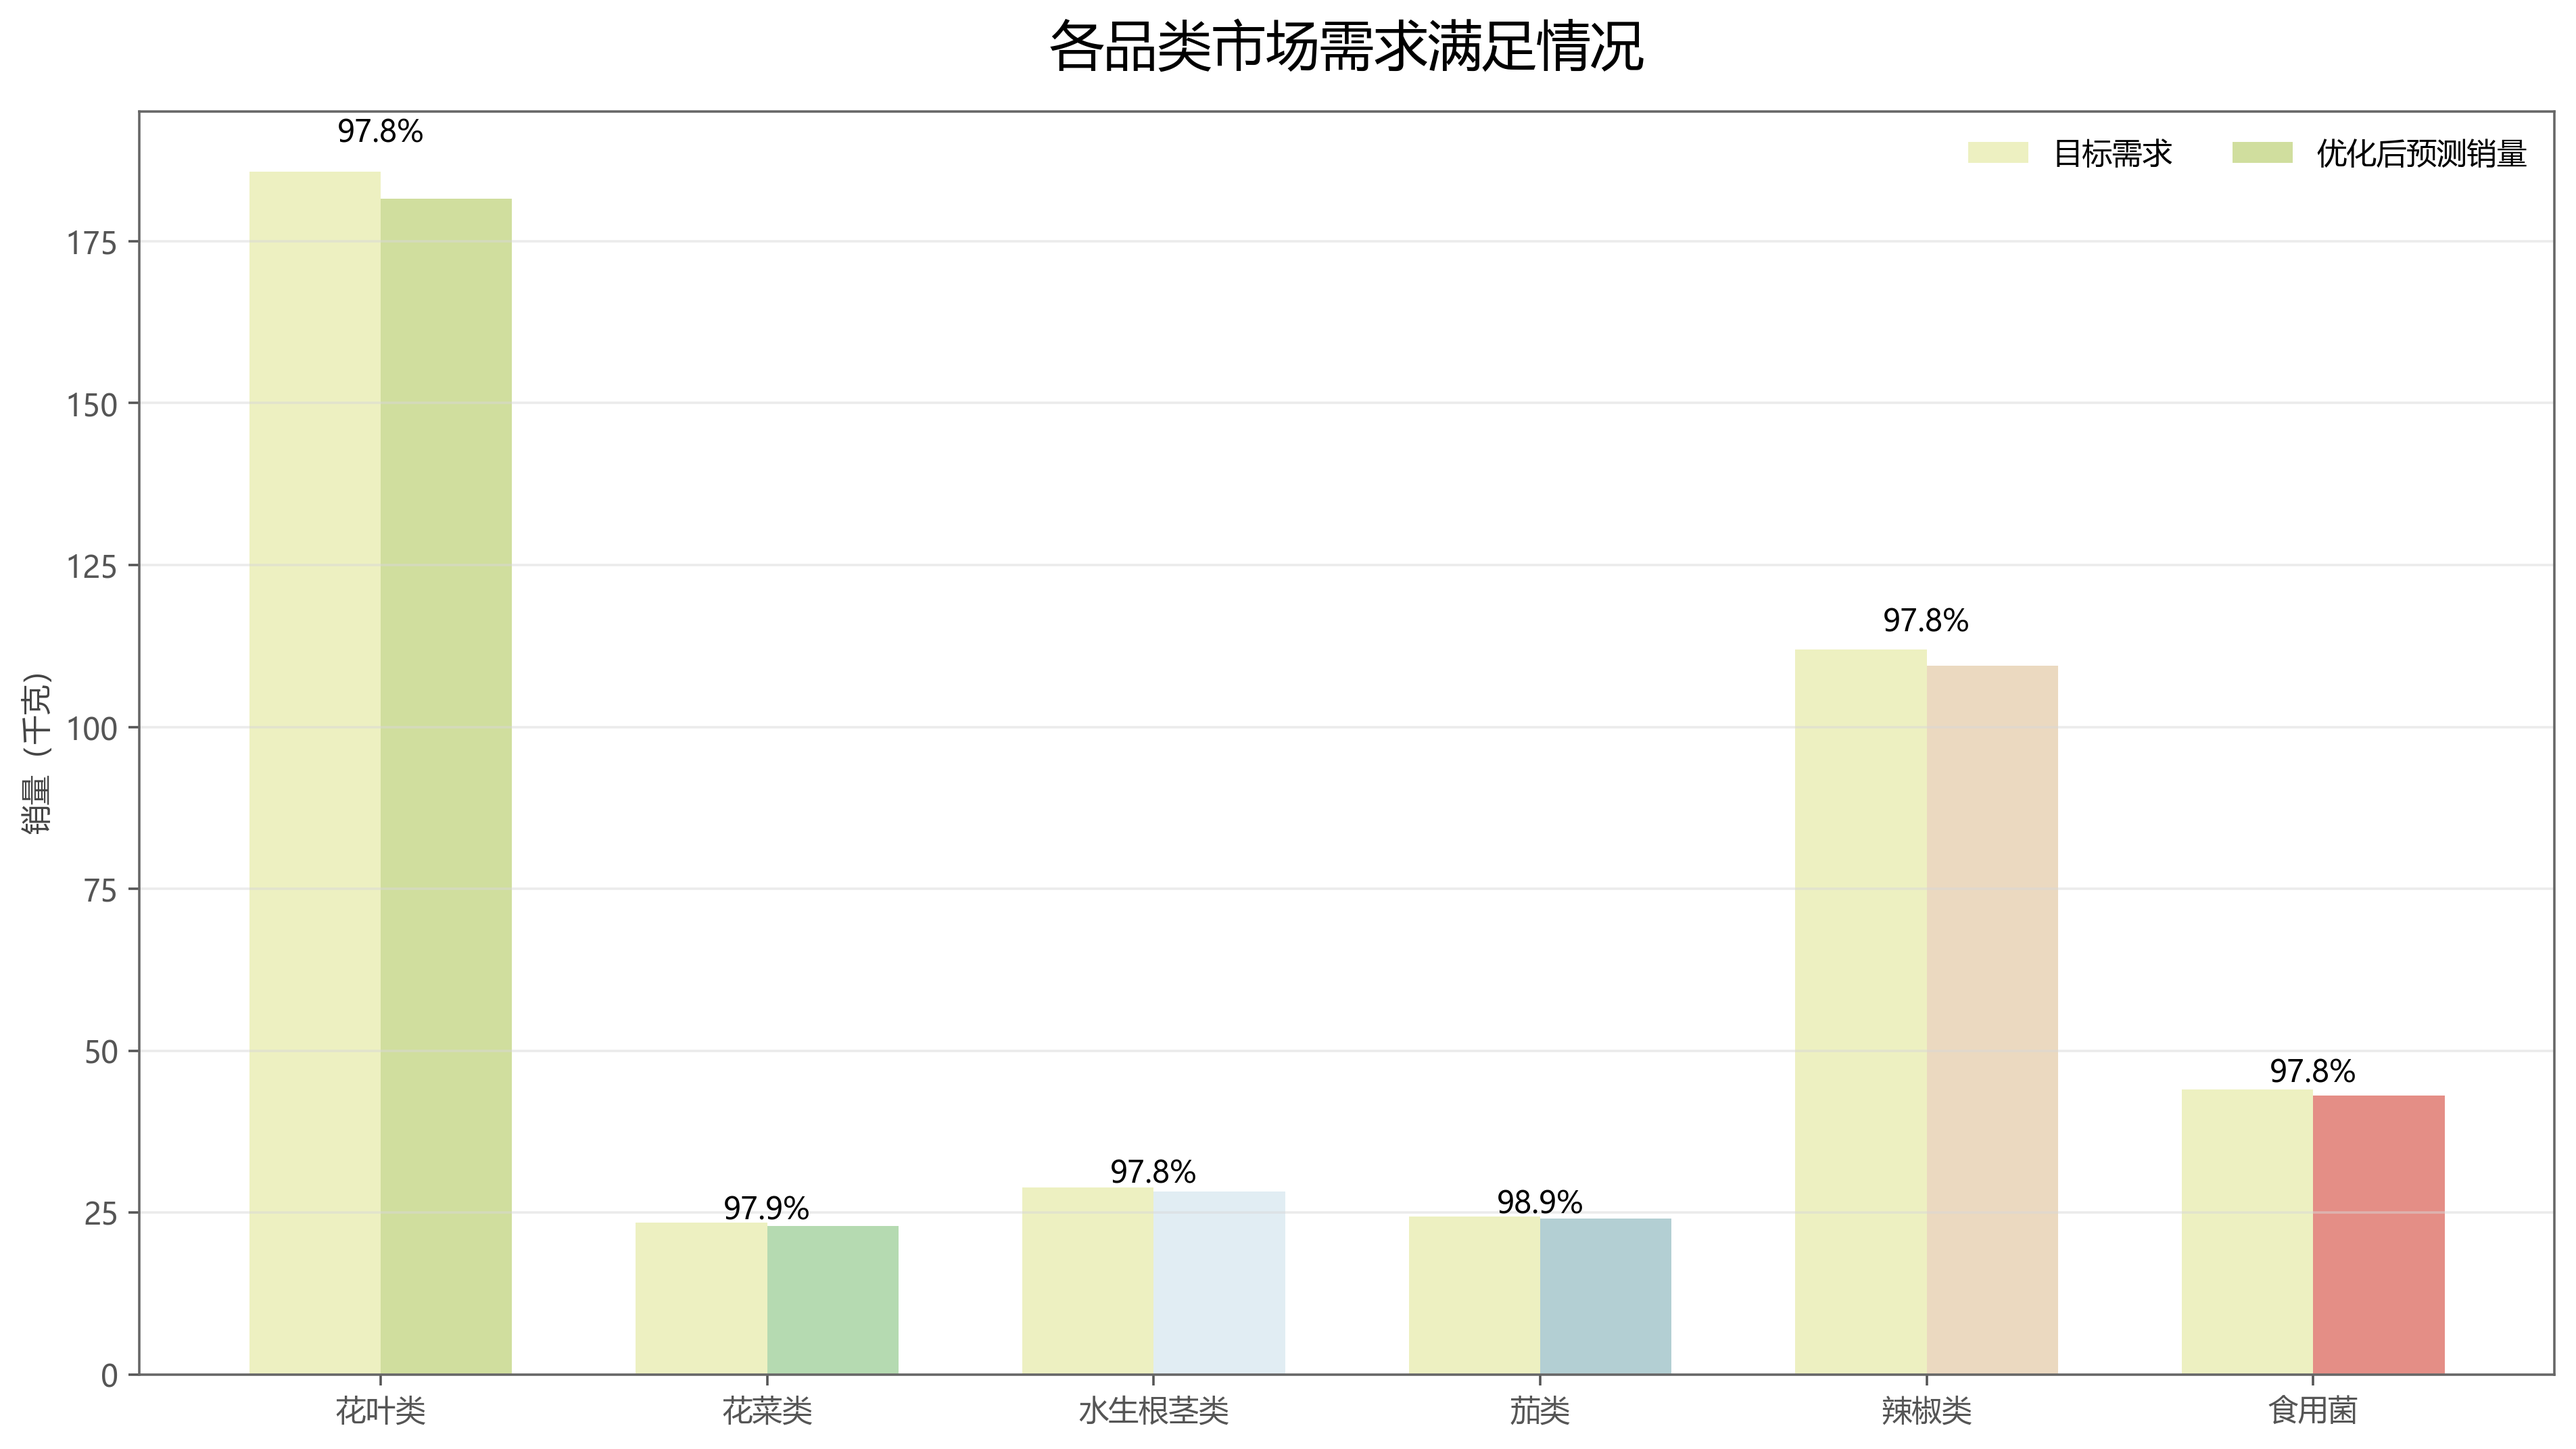
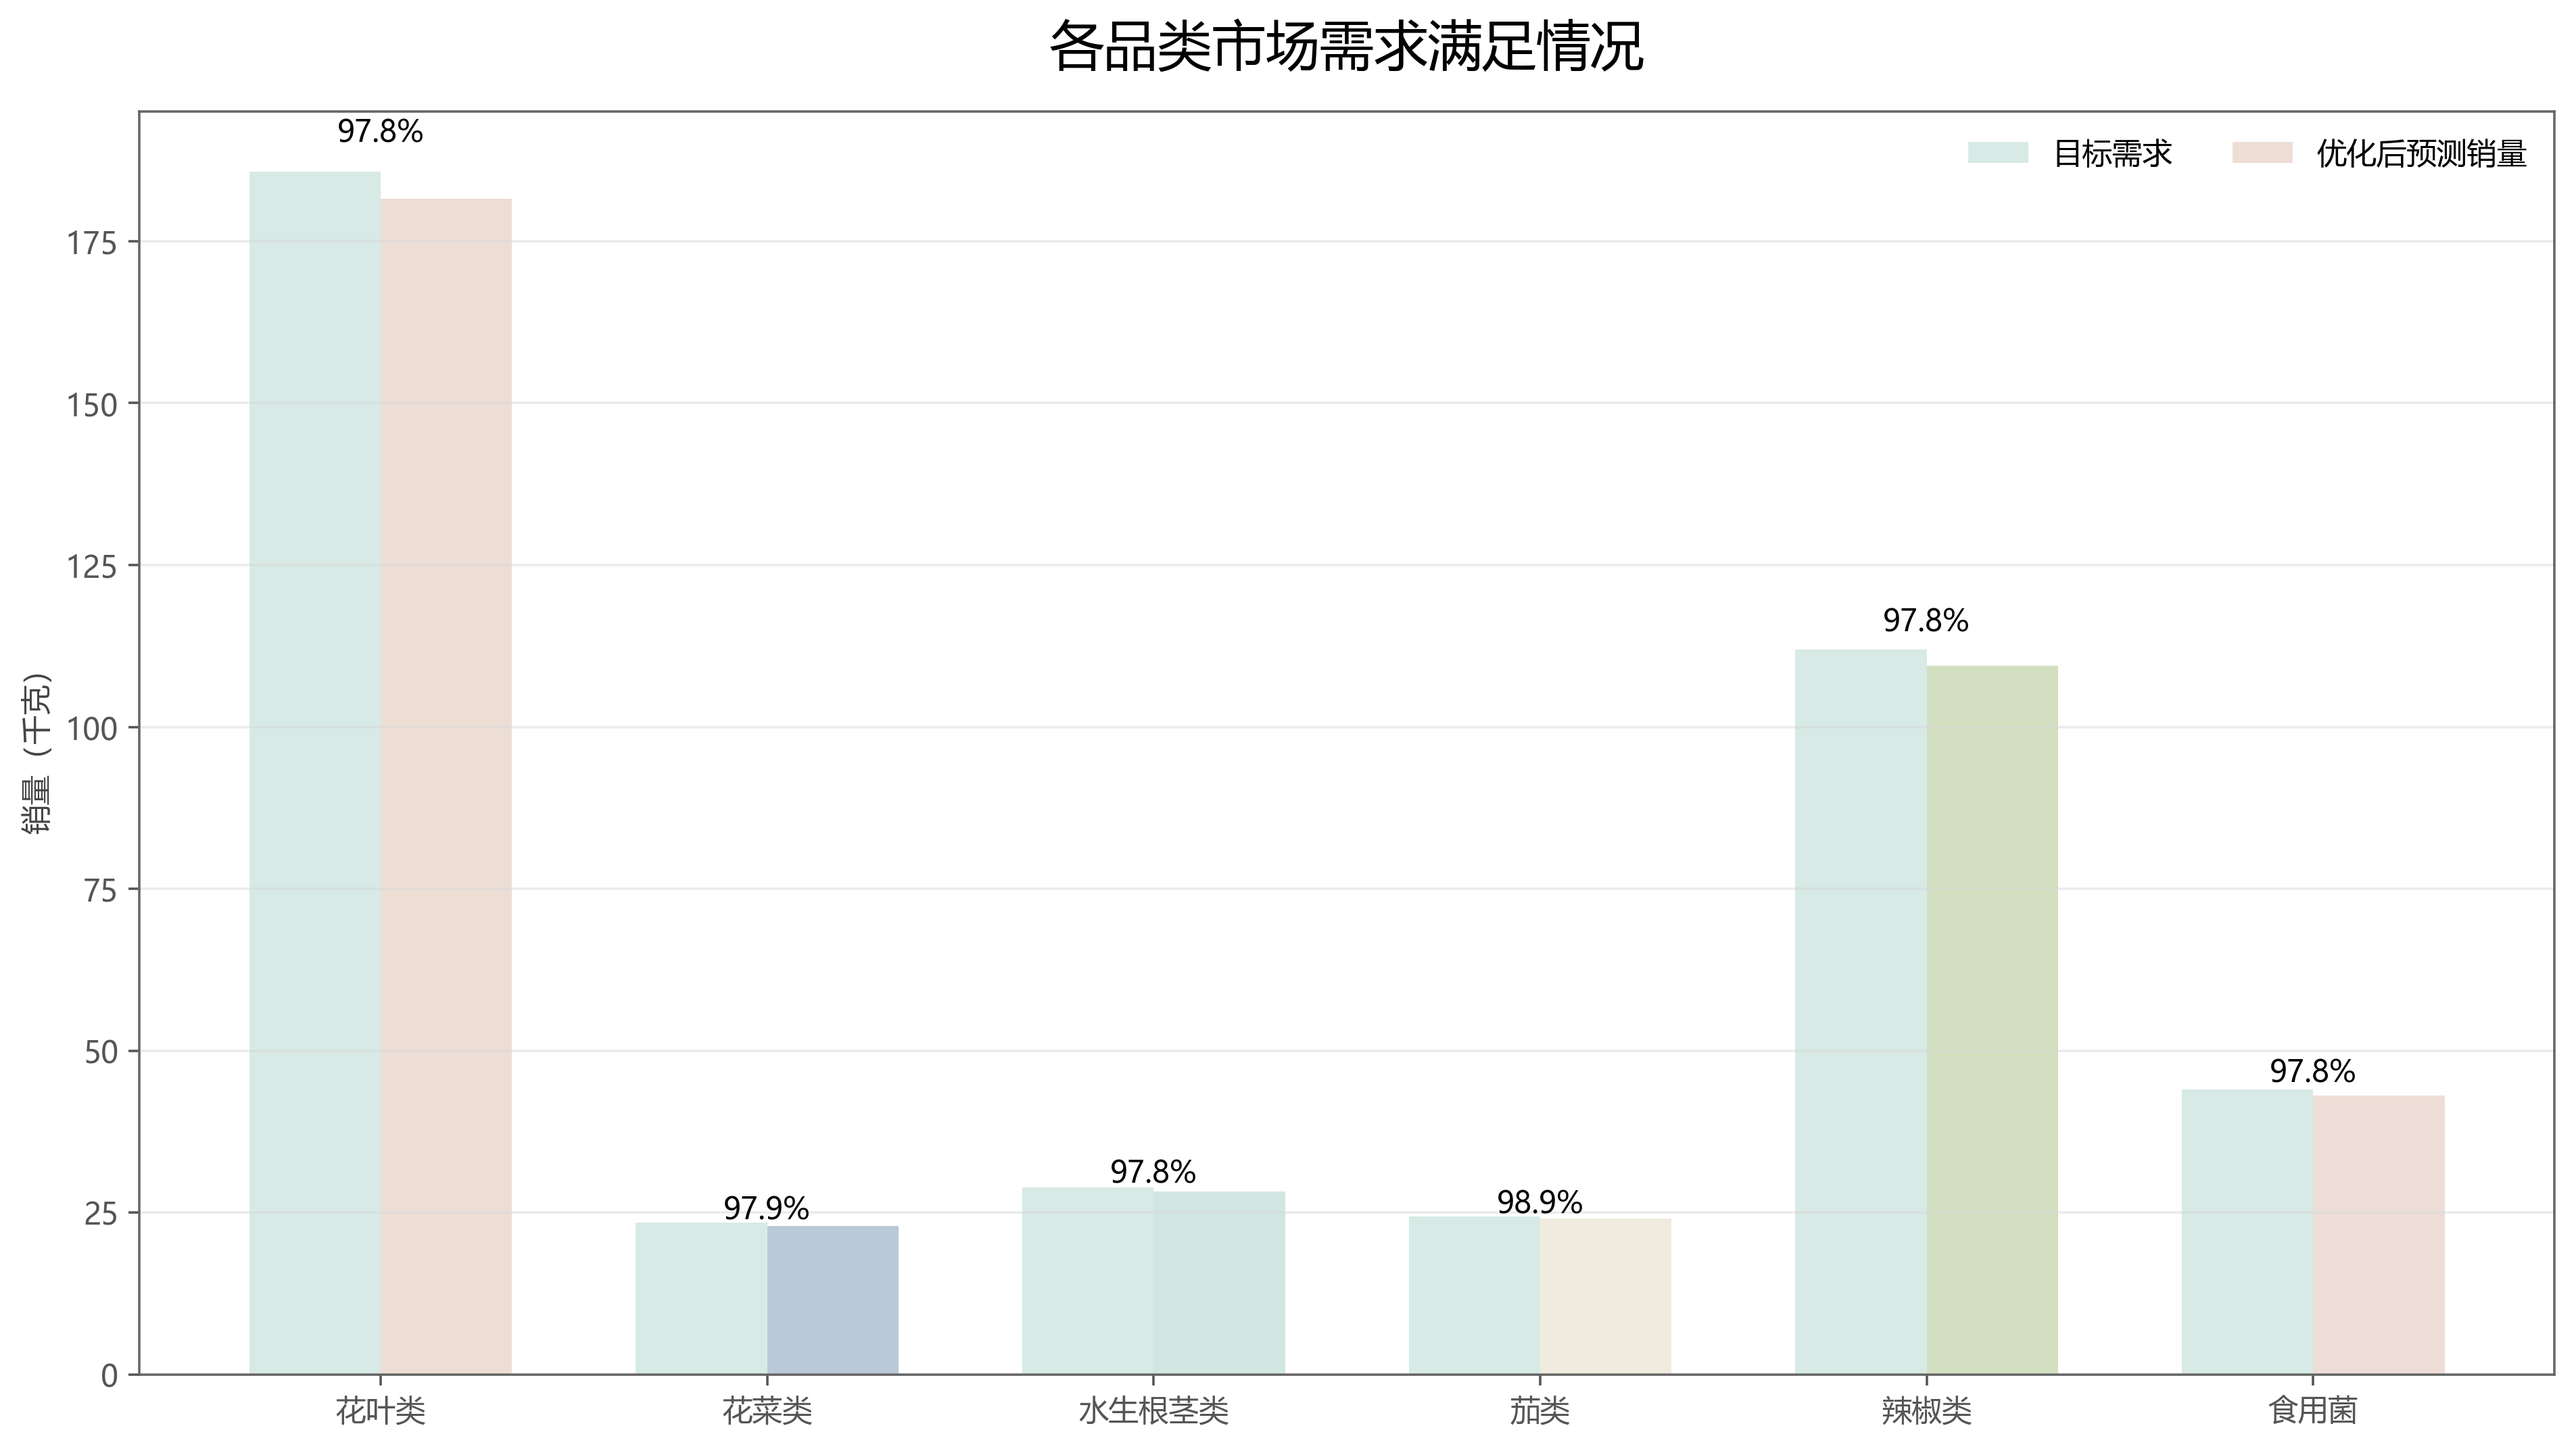
1

diff --git a/python/第三问.py b/python/第三问.py
@@ -630,8 +630,8 @@ def plot_category_summary(summary: pd.DataFrame) -> None:
     # 图 2-1：品类需求满足情况
     fig1, ax1 = plt.subplots(figsize=(12, 6.8), facecolor="white")
     width = 0.34
-    ax1.bar(x - width / 2, summary["品类目标需求_kg"], width, color="#E9EDB2", alpha=0.8, label="目标需求")
-    ax1.bar(x + width / 2, summary["预测销量_kg"], width, color=["#C9D98E","#A9D4A5","#DCEAF2","#A7C8CC","#E8D3B6","#E07C72"], alpha=0.86, label="优化后预测销量")
+    ax1.bar(x - width / 2, summary["品类目标需求_kg"], width, color="#cee5df", alpha=0.8, label="目标需求")
+    ax1.bar(x + width / 2, summary["预测销量_kg"], width, color=["#ead9ce","#afc1d1","#cae3dd","#eee8d9","#cbdab6","#ebd8d0"], alpha=0.86, label="优化后预测销量")
     ax1.set_ylabel("销量（千克）")
     ax1.set_xticks(x, summary["分类名称"])
     ax1.set_title("各品类市场需求满足情况", fontsize=18, pad=16)
